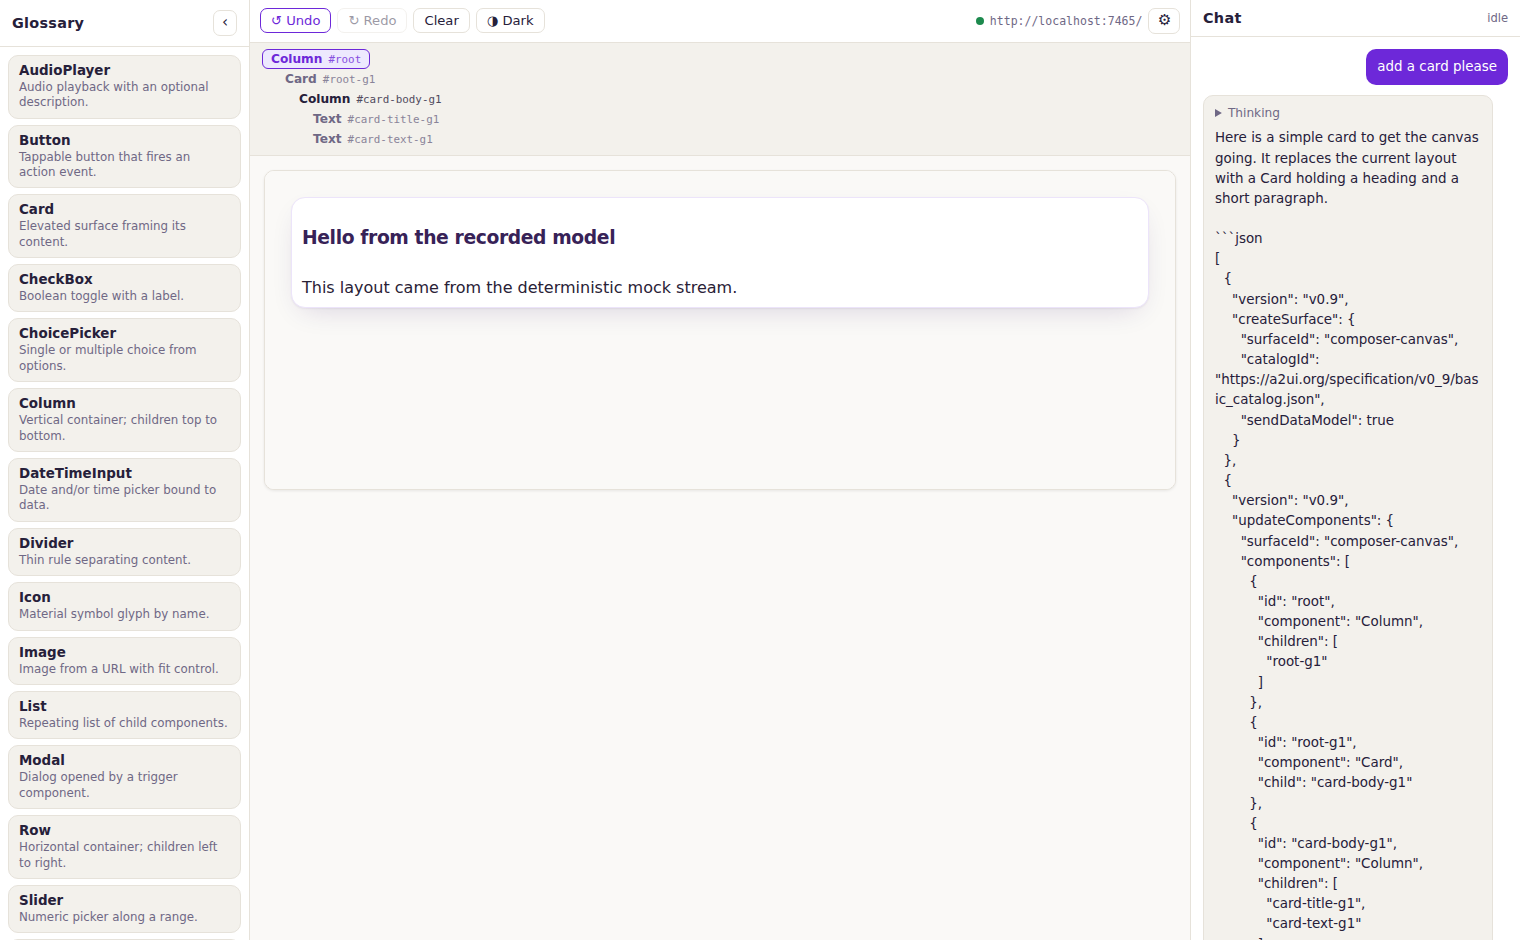
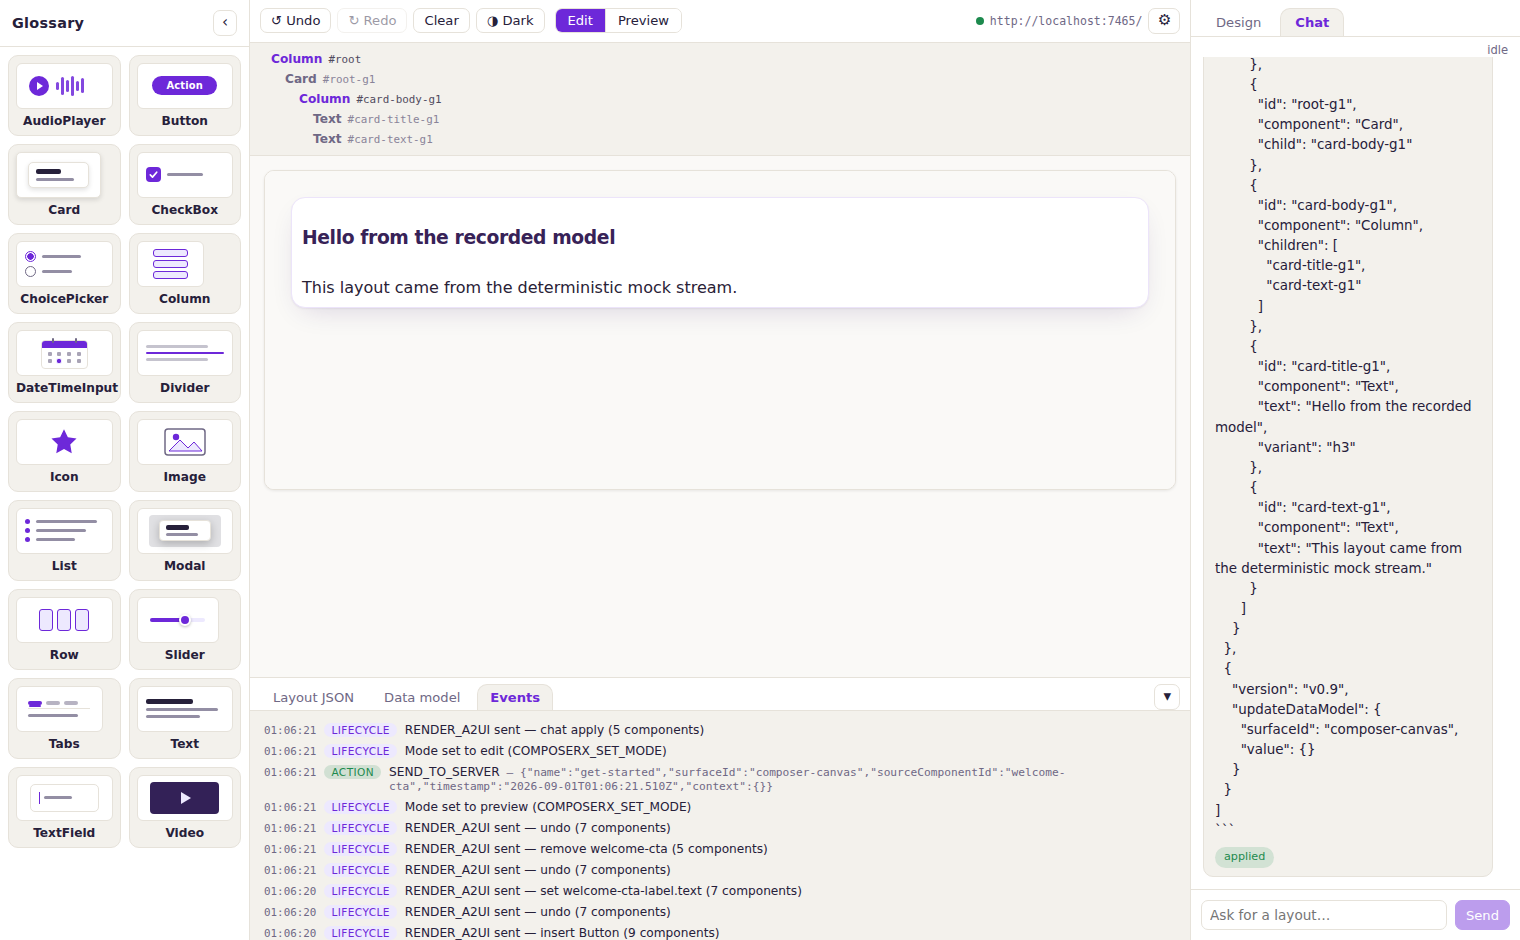
Figma-mode wave final: one-undo-per-commit guard, live verification, screenshots, docs
- store.commitProp: unchanged-value commits (Enter followed by the blur it
  causes) no longer push a second undo snapshot — found by the live drive,
  pinned by re-probe (one undo restores the pre-edit label and exhausts
  the stack).
- 13-check Playwright drive against the live pair: visual tiles (18 with
  preview glyphs), positional drag under the edit veil, canvas
  click-to-select -> Design inspector -> text-prop commit -> canvas
  re-render (single undo step), inspector subtree delete + undo restore,
  preview-mode SEND_TO_SERVER + edit re-engage, Chat-tab mock apply,
  theme propagation, and dashed drop indicators (insertion caret +
  container outline) captured mid-hover on a catalog-solo page.
- Screenshots: composer-inspector.png, composer-dnd-indicator.png (new),
  composer-{light,chat-applied,dark}.png refreshed for the new UI.
- README test counts (composer 161, catalog 52) + VERIFICATION.md
  Figma-mode addendum (incl. the preview-default compatibility guard for
  COMPOSERX-unaware hosts). make check green repo-wide.

Claude-Session: https://claude.ai/code/session_014VYEH5he4rwTu1SjSeeHNe

diff --git a/apps/composer/src/state/store.ts b/apps/composer/src/state/store.ts
@@ -477,6 +477,16 @@ export function createComposerStore(options: ComposerStoreOptions = {}): Compose
     },
     commitProp(id, key, value) {
       try {
+        // Unchanged-value commits (e.g. Enter followed by the blur it causes)
+        // must not push an undo snapshot: one edit, one step.
+        const existing = state.doc.components.find((c) => c.id === id);
+        if (
+          existing &&
+          key in existing &&
+          JSON.stringify(existing[key]) === JSON.stringify(value)
+        ) {
+          return { ok: true };
+        }
         const doc = setComponentProp(state.doc, id, key, value);
         applyDoc(doc, `set ${id}.${key}`);
         return { ok: true };

diff --git a/docs/VERIFICATION.md b/docs/VERIFICATION.md
@@ -164,3 +164,31 @@ Deferred to the user:
   `pnpm --filter @mwe/composer-catalog dev` and paste
   `http://localhost:7465/` as the renderer URL (not exercised in-session —
   the hosted composer's origin wasn't reachable through the session proxy).
+
+### Figma-mode editing addendum
+
+The second composer milestone (visual glossary tiles, canvas selection +
+Design inspector, edit/preview modes, dashed drop indicators) was verified
+the same way:
+
+- Units: composer 161 vitest tests (inspector widgets/commit paths, prop-op
+  guards, remove rules, sidebar tabs, shortcuts), catalog 52 (prop-spec
+  derivation against the real zod schemas, veil/selection/mode handling,
+  dashed indicator styling).
+- Live Playwright drive (13 checks): handshake; 18 visual tiles; sidecar v2
+  announce; positional drag under the edit veil; undo; **canvas
+  click-to-select opening the Design inspector** (deepest component wins —
+  clicking the CTA selects its label Text); **text-prop commit re-rendering
+  the canvas as exactly one undo step** (a double-snapshot bug found by this
+  drive was fixed in `store.commitProp` with an unchanged-value guard);
+  inspector Delete removing a subtree and undo restoring it; preview mode
+  restoring live components (SEND_TO_SERVER observed) and edit mode
+  re-engaging; Chat-tab mock apply; theme propagation; **dashed drop
+  indicators drawn during a DND hover** (insertion caret + container
+  outline, captured on a catalog-solo page). Screenshots:
+  `composer-inspector.png`, `composer-dnd-indicator.png`, plus refreshed
+  `composer-{light,chat-applied,dark}.png`.
+- Compatibility guard: the sidecar's default mode is preview, so the catalog
+  stays a fully interactive standard renderer under COMPOSERX-unaware hosts
+  (official hosted composer); our composer switches it to edit in every
+  handshake.

diff --git a/README.md b/README.md
@@ -74,8 +74,8 @@ fixtures, identity-header names, and recorded real-agent SSE transcripts.
 | `apps/web/`                  | React + Apollo Client 4.2 + raw `@ag-ui/client` chat, RefetchEventManager reconciliation | vitest (11)               |
 | `apps/android/`              | Thin Compose + Apollo Kotlin shell over the Kotlin core                                  | build locally             |
 | `apps/ios/`                  | Thin SwiftUI + Apollo iOS shell over the Swift core (XcodeGen)                           | build locally             |
-| `apps/composer/`             | Custom A2UI composer shell: glossary DnD, iframe canvas, JSON drawer, Anthropic chat     | vitest (86)               |
-| `apps/catalog/`              | Custom-styled A2UI basic-catalog renderer the composer iframes (+ DnD sidecar)           | vitest (23)               |
+| `apps/composer/`             | Custom A2UI composer shell: glossary DnD, iframe canvas, JSON drawer, Anthropic chat     | vitest (161)              |
+| `apps/catalog/`              | Custom-styled A2UI basic-catalog renderer the composer iframes (+ DnD sidecar)           | vitest (52)               |
 | `packages/a2ui-bridge/`      | Vendored renderer-side A2UI Preview Bridge (official composer repo, Apache-2.0)          | vendored — see its README |
 | `packages/chat-core-kotlin/` | Pure-JVM AG-UI core: SSE parser, session/tool loop, invalidation bus                     | JUnit (20)                |
 | `packages/chat-core-swift/`  | SwiftPM mirror of the Kotlin core, Linux-testable                                        | `swift test` locally      |
